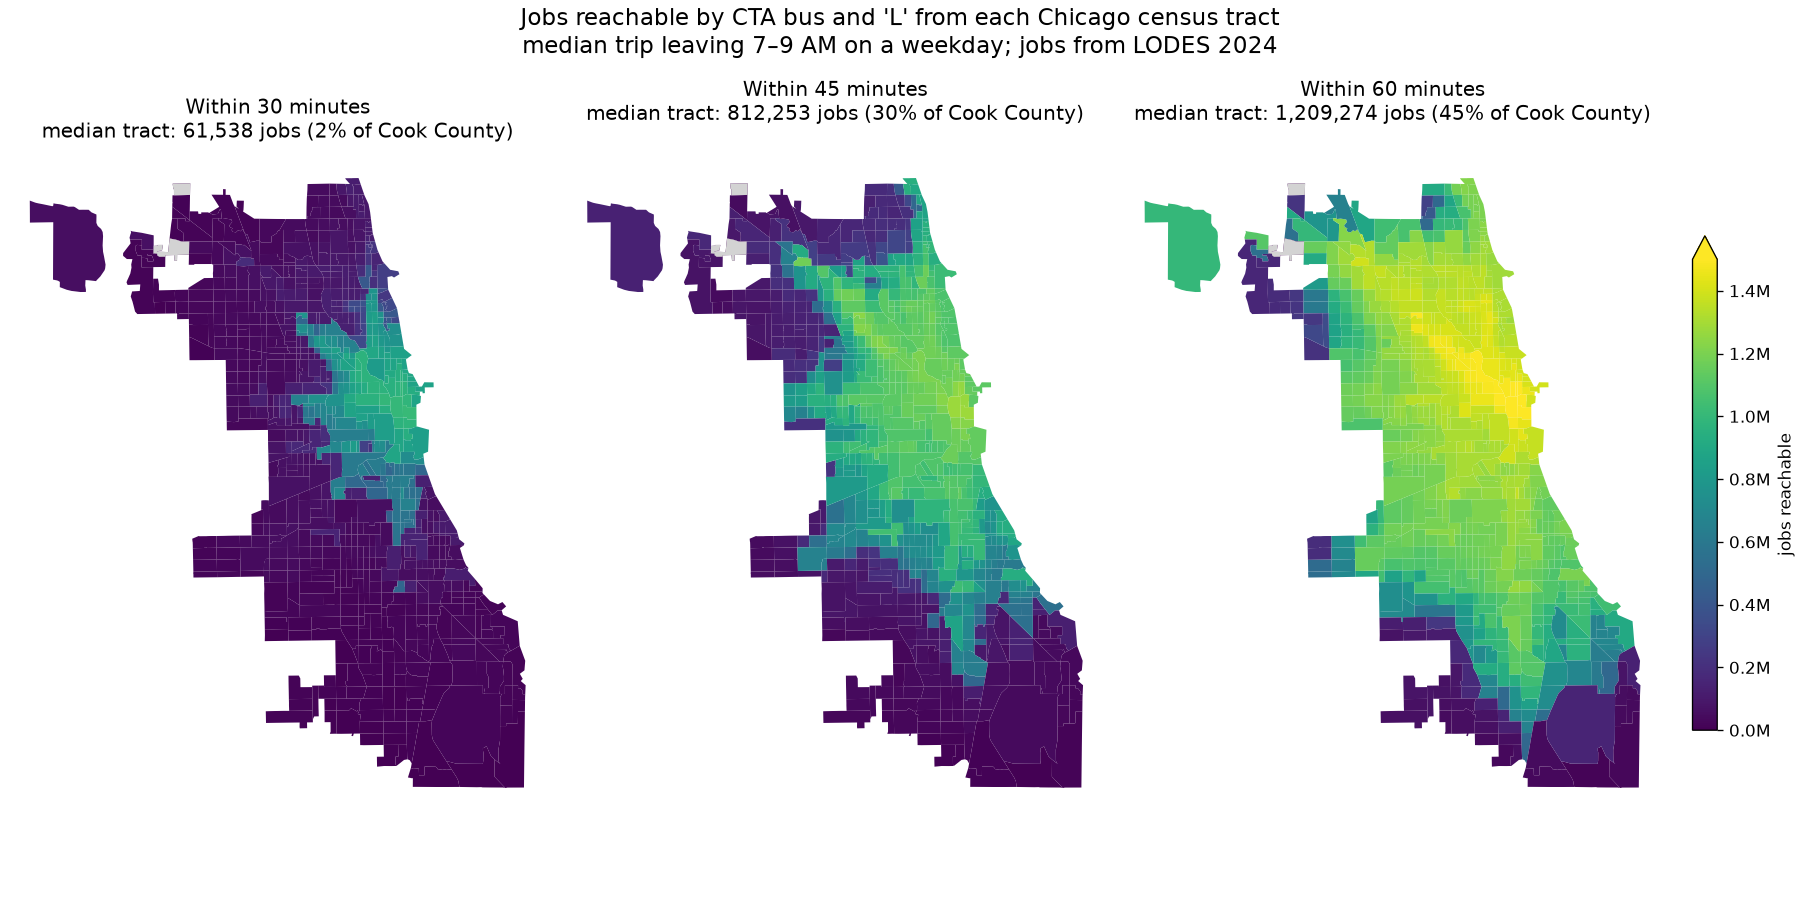
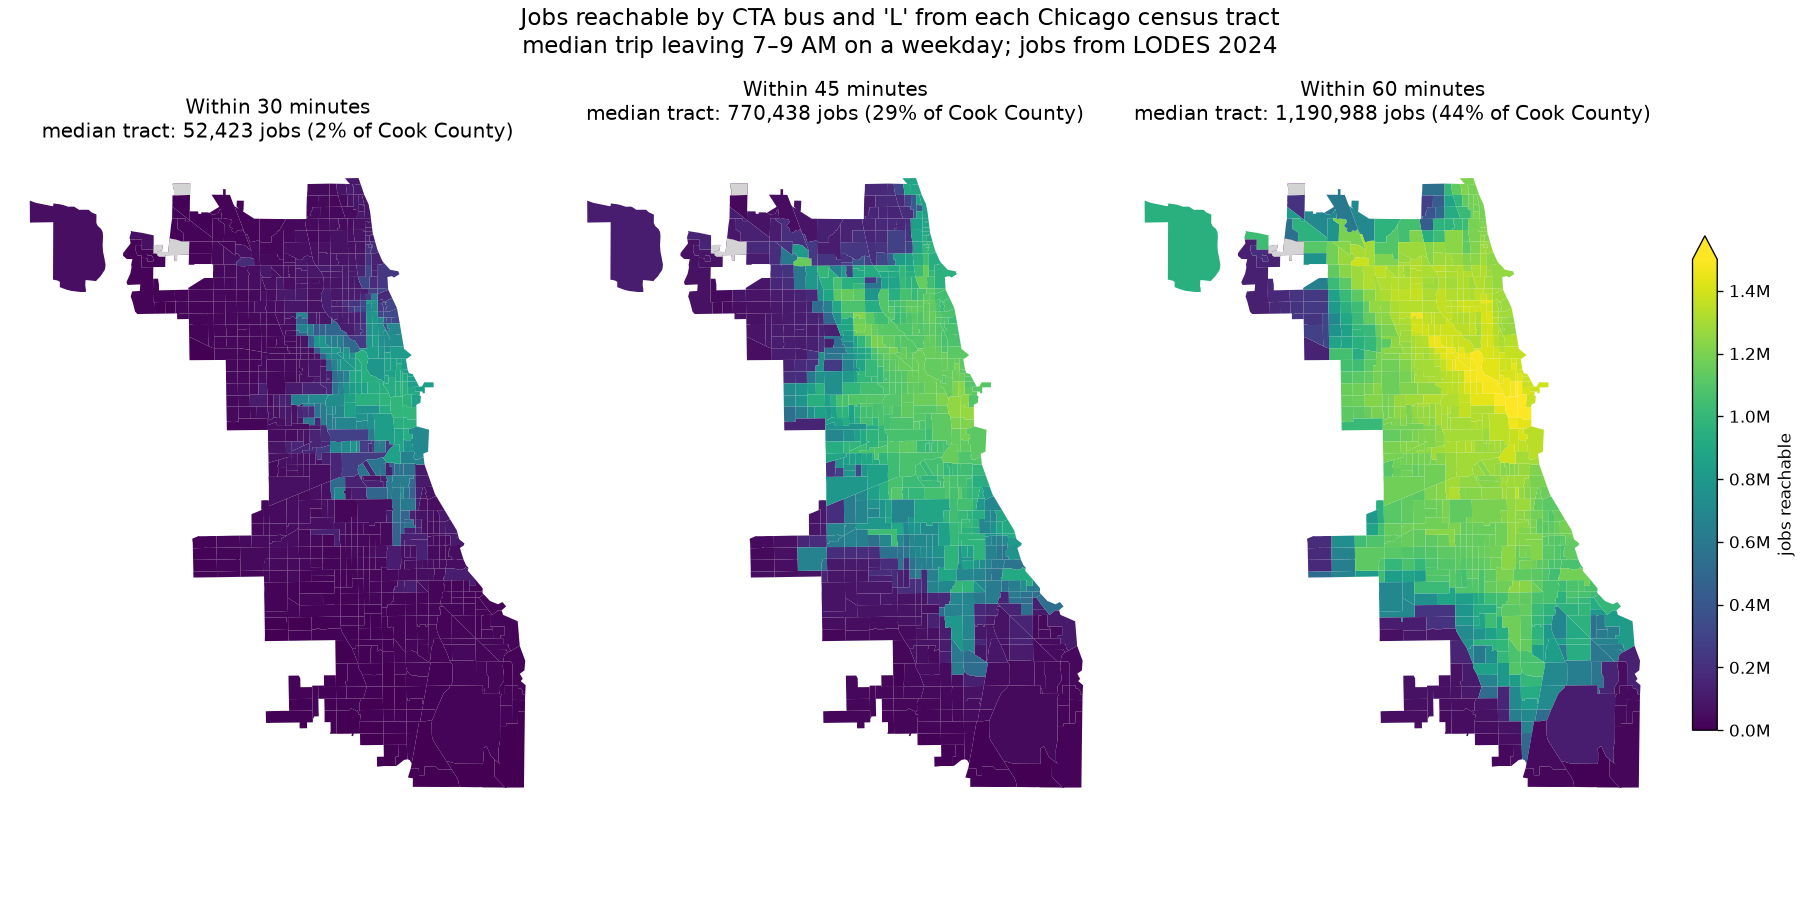
Walk at 5 km/h with a 1.2 detour factor, as planned
The roadmap fixed walking as straight-line distance x 1.2 at 5 km/h; the
analysis had used 1.3 m/s with no detour, about 11% too fast. Scenario
now folds the detour into the speed (1.157 m/s over the straight line).
Median Chicago tract within 45 minutes: 770K jobs (was 812K).

diff --git a/analysis/job_access.py b/analysis/job_access.py
@@ -39,10 +39,18 @@ class Scenario:
     window_start: int = 7 * 3600  # 7:00 AM
     window_end: int = 9 * 3600  # 9:00 AM, inclusive
     step: int = 60  # a departure every minute
-    transfer_walk_m: float = 400.0  # longest walk between stops
-    access_walk_m: float = 800.0  # longest walk from home / to work
-    walk_speed_mps: float = 1.3
+    transfer_walk_m: float = 400.0  # longest walk between stops, straight line
+    access_walk_m: float = 800.0  # longest walk from home / to work, straight line
+    walk_kmh: float = 5.0  # walking pace along streets
+    walk_detour: float = 1.2  # street distance / straight-line distance
     thresholds_min: tuple[int, ...] = (30, 45, 60)
+
+    @property
+    def walk_speed_mps(self) -> float:
+        """Speed over straight-line distance: the router measures walks as
+        straight lines, so the detour is folded into the speed
+        (5 km/h with a 1.2 detour = 1.157 m/s)."""
+        return self.walk_kmh / 3.6 / self.walk_detour
 
     @property
     def departures(self) -> list[int]:

diff --git a/README.md b/README.md
@@ -36,8 +36,10 @@ The router is complete for the accessibility analysis.
 
 **Current limitations**
 
-- Walking distances are straight lines, not along streets, so walks are
-  somewhat optimistic (real walks are typically 20-40% longer).
+- Walking distances are straight lines, not along streets. The analysis
+  compensates with a 1.2 detour factor folded into the walking speed, which
+  is right on average but not for any particular walk (a river or rail yard
+  can make the real walk much longer).
 - Walks are not chained: one walk after each ride, plus the walks to the
   first stop and from the last. `transfers.txt` is ignored.
 - Transfers have no minimum time: a rider can step off one vehicle and onto
@@ -80,23 +82,25 @@ Census API, which now requires a key.
 
 `python analysis/job_access.py` routes from every Chicago tract's population
 centroid to every Cook County tract's, leaving every minute from 7:00 to
-9:00 AM on Wednesday 18 Nov 2026 (CTA weekday service), with up to 800 m of
-walking at each end and 400 m between stops at 1.3 m/s. For each pair it takes
-the median travel time over the 121 departures, then counts the jobs in every
-tract reachable within 30, 45 and 60 minutes (793 x 1,331 tracts x 121
-departures: about 13 s on 8 cores). Output: `data/processed/job_access.csv`
-and the median travel-time matrix `travel_times.npz`.
+9:00 AM on Wednesday 18 Nov 2026 (CTA weekday service). Walks are measured
+as straight lines up to 800 m at each end and 400 m between stops, and
+walked at 5 km/h along streets assumed 1.2 times the straight-line distance
+(1.157 m/s over the straight line). For each pair it takes the median travel
+time over the 121 departures, then counts the jobs in every tract reachable
+within 30, 45 and 60 minutes (793 x 1,331 tracts x 121 departures: about 10 s
+on 8 cores). Output: `data/processed/job_access.csv` and the median
+travel-time matrix `travel_times.npz`.
 `python analysis/plot_job_access.py` draws `results/job_access_map.png`.
 
 | Within | Median Chicago tract | 10th percentile | 90th percentile |
 |---|---|---|---|
-| 30 min | 61,538 jobs (2% of Cook County) | 14,135 | 777,314 |
-| 45 min | 812,253 (30%) | 56,524 | 1,142,561 |
-| 60 min | 1,209,274 (45%) | 666,434 | 1,399,434 |
+| 30 min | 52,423 jobs (2% of Cook County) | 12,129 | 728,119 |
+| 45 min | 770,438 (29%) | 52,043 | 1,122,038 |
+| 60 min | 1,190,988 (44%) | 602,049 | 1,376,492 |
 
 The jump from 30 to 45 minutes is the Loop: its three largest tracts alone
 hold about 450,000 jobs, a sixth of Cook County's, and the median trip to the
-central Loop tract takes 38 minutes.
+central Loop tract takes 39 minutes.
 The model covers CTA only, so places served mainly by Metra or Pace (two
 Far Northwest Side tracts have no CTA stop within 800 m) score low, and
 suburban job centers are under-counted as destinations.
